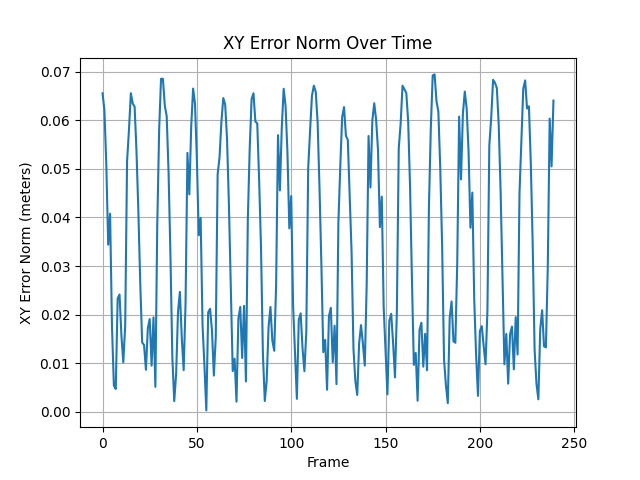
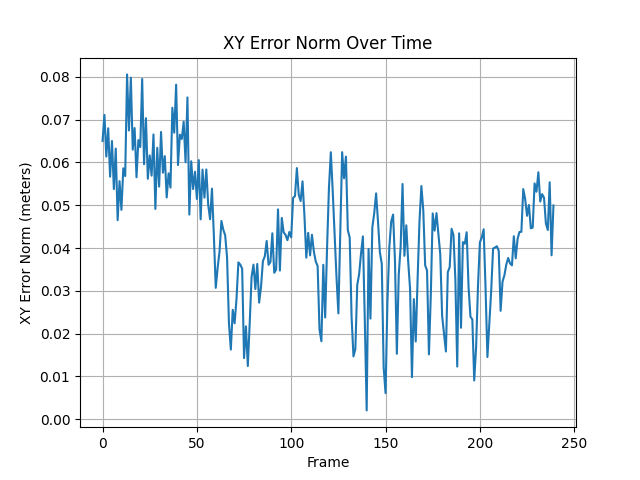
add test

diff --git a/source/ros2/isaac-ros/g1_standalone_v1_nav_heuristic_test.py b/source/ros2/isaac-ros/g1_standalone_v1_nav_heuristic_test.py
@@ -548,14 +548,35 @@ heading_error_bs = np.zeros((1,1))
 free_iter = 2000
 
 # heading_target = -math.pi
-LAST_ITER = 8000
+LAST_ITER = 16000
 
 # target_pos_w = np.array([0.5, 0., 0.0])
 # heading_target = math.pi/4
 
-target_pos_w = np.array([-1.0, 0.0, 0.0])
-heading_target = 0.
-# heading_target = -math.pi/2
+target_pose_list = np.array([
+    # go forward
+    [1.0, 0.0, 0.0, 0.0],
+    # go backward
+    [0.0, 0.0, 0.0, 0.0],
+    # go left
+    [0.0, 1.0, 0.0, 0.0],
+    # go right
+    [0.0, 0.0, 0.0, 0.0],
+    # turn left
+    [0.0, 0.0, 0.0, math.pi/2],
+    # turn right
+    [0.0, 0.0, 0.0, 0.0],
+])
+errors_per_pose = {
+    0: ("go forward", []),
+    1: ("go backward", []),
+    2: ("go left", []),
+    3: ("go right", []),
+    4: ("turn left", []),
+    5: ("turn right", []),
+}
+current_target_pose_idx = 0
+time_per_pose = 2000
 
 SLOW_BOUND = 0.4
 MAX_LIN_VEL = 0.2
@@ -614,6 +635,10 @@ while simulation_app.is_running():
 
     # imu rate 50Hz
     if ( current_iter % 4 == 0 or is_first_released ) and est_base_pos is not None and est_base_quat is not None:
+        # Iterate over the target poses
+        heading_target = target_pose_list[current_target_pose_idx][3]
+        target_pos_w = target_pose_list[current_target_pose_idx][:3]
+
         is_first_released = False
         qj = np.array(av.get_joint_positions()[0])
         dqj = np.array(av.get_joint_velocities()[0])
@@ -649,8 +674,24 @@ while simulation_app.is_running():
             # print("AVG pos error : ", round(np.mean(pos_command_bs[-NUM_AVG:, :].reshape((NUM_AVG,))), 4))
             # print("AVG ori error : ", round(np.mean(np.abs(heading_error_bs[-NUM_AVG:, :]).reshape((NUM_AVG,))), 4))
             if np.mean(pos_command_bs[-NUM_AVG:, :].reshape((NUM_AVG,))) < ERROR_THRESHOLD \
-                and np.mean(np.abs(heading_error_bs[-NUM_AVG:, :]).reshape((NUM_AVG,))) < 0.05:
+                and np.mean(np.abs(heading_error_bs[-NUM_AVG:, :]).reshape((NUM_AVG,))) < 0.05 \
+                and errors_per_pose[current_target_pose_idx][1] == []:
+                print(f"========= {errors_per_pose[current_target_pose_idx][0]} completed =========")
+                pos_error = round(np.linalg.norm(base_pos[:2] - target_pos_w[:2]), 4)
+                ori_error = round(np.abs(heading_error[0]), 4)
+                print("pos error : ", pos_error)
+                print("ori error : ", ori_error)
+                print("===========================================")
+                errors_per_pose[current_target_pose_idx][1].append(pos_error)
+                errors_per_pose[current_target_pose_idx][1].append(ori_error)
+                time_per_pose = 0
+
+        if time_per_pose == 0:
+            time_per_pose = 2000
+            current_target_pose_idx += 1
+            if current_target_pose_idx >= len(target_pose_list):
                 current_iter = LAST_ITER
+        time_per_pose -= 1
 
         # Navigation
         if current_iter % int(200/NAV_HZ):
@@ -753,10 +794,15 @@ while simulation_app.is_running():
         print("lidar ang jitter max:", np.round(np.max(lidar_ang_jitters, axis=0), 4))
 
         print("====== NAVIGATION ERROR ======")
-        final_xy_pos_error = np.linalg.norm(base_pos[:2] - target_pos_w[:2])
-        final_orientation_error = np.abs(heading_error)
-        print("final_xy_pos_error : ", round(final_xy_pos_error, 4))
-        print("final_orientation_error : ", round(final_orientation_error[0], 4))
+        # final_xy_pos_error = np.linalg.norm(base_pos[:2] - target_pos_w[:2])
+        # final_orientation_error = np.abs(heading_error)
+        # print("final_xy_pos_error : ", round(final_xy_pos_error, 4))
+        # print("final_orientation_error : ", round(final_orientation_error[0], 4))
+        for idx, (pose_name, errors) in errors_per_pose.items():
+            if errors:
+                print(f"{pose_name} \n - XY Error: {errors[0]} \n - Orientation Error: {errors[1]}")
+            else:
+                print(f"{pose_name} - Not completed yet.")
 
         import matplotlib.pyplot as plt
 
